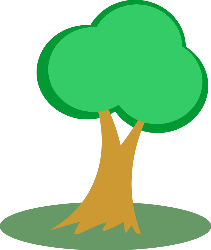
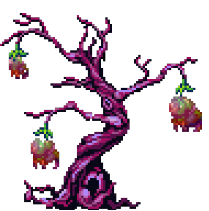
runtime! semi final

diff --git a/projects/runtime/js/level01.js b/projects/runtime/js/level01.js
@@ -16,9 +16,25 @@ var level01 = function (window) {
             "number": 1, 
             "speed": -3,
             "gameItems": [
-                { "type": "sawblade", "x": 400, "y": groundY },
-                { "type": "sawblade", "x": 600, "y": groundY },
-                { "type": "sawblade", "x": 900, "y": groundY },
+                { "type": "sawblade", "x": 400, "y": groundY - 115},
+                { "type": "sawblade", "x": 700, "y": groundY  - 140},
+                { "type": "sawblade", "x": 800, "y": groundY - 20},
+                { "type": "sawblade", "x": 1600, "y": groundY - 20},
+                { "type": "sawblade", "x": 2500, "y": groundY - 20},
+                { "type": "sawblade", "x": 2250, "y": groundY - 20},
+                { "type": "sawblade", "x": 3000, "y": groundY - 20},
+                { "type": "sawblade", "x": 3500, "y": groundY - 20},
+
+
+                { "type": "enemy", "x": 800, "y": groundY - 45},
+                { "type": "enemy", "x": 1600, "y": groundY - 45},
+                { "type": "enemy", "x": 2500, "y": groundY - 45},
+                { "type": "enemy", "x": 2000, "y": groundY - 45},
+            
+
+                { "type": "reward", "x": 1000, "y": groundY - 80},
+                { "type": "reward", "x": 2300, "y": groundY - 80},
+                { "type": "reward", "x": 2700, "y": groundY - 80},
             ]
         };
         window.levelData = levelData;
@@ -29,27 +45,90 @@ var level01 = function (window) {
         // BEGIN EDITING YOUR CODE HERE
 
         function createSawBlade(x, y){
-        var hitZoneSize = 25; //creates the size of the hitzone to 25 pixels
-        var damageFromObstacle = 10; //sets the damage of the obstacle
-        var sawBladeHitZone = game.createObstacle(hitZoneSize, damageFromObstacle); //creates the hitzone 
-        sawBladeHitZone.x = x; //the x position of the hitzone
-        sawBladeHitZone.y = y; //the y position of the hitzone
-        game.addGameItem(sawBladeHitZone); //add the hitzone to the game
+            var hitZoneSize = 30; //creates the size of the hitzone to 25 pixels
+            var damageFromObstacle = 10; //sets the damage of the obstacle
+            var sawBladeHitZone = game.createObstacle(hitZoneSize, damageFromObstacle); //creates the hitzone 
+            sawBladeHitZone.x = x; //the x position of the hitzone
+            sawBladeHitZone.y = y; //the y position of the hitzone
+            game.addGameItem(sawBladeHitZone); //add the hitzone to the game
 
-        var obstacleImage = draw.bitmap('img/sawblade.png'); //drawing the image and storing in the variable
-        sawBladeHitZone.addChild(obstacleImage); //adds the image to the hitzone     
-        obstacleImage.x = -25; //tweaks the image 25 pixels to the left
-        obstacleImage.y = -25; //tweaks the image 25 pixels up
+            var obstacleImage = draw.bitmap('img/Bombddd.png'); //drawing the image and storing in the variable
+            sawBladeHitZone.addChild(obstacleImage); //adds the image to the hitzone     
+            obstacleImage.x = -40; //tweaks the image 25 pixels to the left
+            obstacleImage.y = -50; //tweaks the image 25 pixels up
     
         }
+        
+        function createEnemy(x,y) {
+            var enemy = game.createGameItem('enemy', 25);
 
-        createSawBlade(400, 345);
-        createSawBlade(600, 345);
-        createSawBlade(800, 345);
+            var redSquare = draw.bitmap('img/ggg.png');
+            redSquare.x = -20;
+            redSquare.y = -40;
+            enemy.addChild(redSquare)
 
+            enemy.x= x;
+            enemy.y = y;
+
+            game.addGameItem(enemy);
+
+            enemy.velocityX = -1;
+
+            enemy.onPlayerCollision = function() {
+                console.log("the enemy had hit halle")
+                game.changeIntegrity(-50);
+                enemy.fadeOut();
+            }
+
+            enemy.onProjectileCollision = function() {
+                console.log("the enemy had hit halle")
+                game.changeIntegrity(-10);
+                game.increaseScore(10);
+                enemy.fadeOut();
         
-        
-        
+            }
+
+        }
+
+        function createReward(x,y) {
+            var reward = game.createGameItem('reward', 25);
+
+            var blueSquare = draw.bitmap('img/reward.png');
+            blueSquare.x = -65;
+            blueSquare.y = -75;
+            reward.addChild(blueSquare)
+
+            reward.x= x;
+            reward.y = y;
+
+            game.addGameItem(reward);
+
+            reward.velocityX = -1;
+
+            reward.onPlayerCollision = function() {
+                console.log("the reward had hit halle")
+                game.changeIntegrity(75);
+            }
+            
+        }
+
+        for(var i = 0; i < levelData.gameItems.length; i++){
+            var gameItem = levelData.gameItems[i];
+
+            if(gameItem.type === "sawblade"){
+                createSawBlade(gameItem.x, gameItem.y);
+            }
+
+            if(gameItem.type === "enemy"){
+                createEnemy(gameItem.x, gameItem.y);
+            }
+
+            if(gameItem.type === "reward"){
+                createReward(gameItem.x, gameItem.y);
+            }
+
+        }
+
         // DO NOT EDIT CODE BELOW HERE
     }
 };

diff --git a/projects/runtime/js/view/background.js b/projects/runtime/js/view/background.js
@@ -37,7 +37,7 @@ var background = function (window) {
             // TODO: 2 - Part 2
             // this fills the background with a obnoxious yellow
             // you should modify this to suit your game
-            var backgroundFill = draw.rect(canvasWidth,groundY,'yellow'); // color for background
+            var backgroundFill = draw.rect(canvasWidth,groundY,'black'); // color for background
             background.addChild(backgroundFill);
             
             // TODO: 3 - Add a moon and starfield
@@ -57,7 +57,7 @@ var background = function (window) {
 
             }
             // TODO 5: Part 1 - Add buildings!     Q: This is before TODO 4 for a reason! Why?
-            for(var i = 0; i < 5; i++) {
+            for(var i = 0; i < 10; i++) {
                 var buildingHeight = 300; // creates a variable called building height that holds the height of the building in pixels
                 var building = draw.rect(75,buildingHeight,'LightGray','Black',1); // creates a var called building that holds the data for the drawn building
                 building.x = 200*i; // positions the x of each building 200 pixels from the next building on each loop
@@ -69,9 +69,9 @@ var background = function (window) {
             // TODO 4: Part 1 - Add a tree
             tree = draw.bitmap('img/tree.png');
             tree.x = 600;
-            tree.y = groundY - 120;
-            tree.scaleX =  0.5;
-            tree.scaleY = 0.5;
+            tree.y = groundY - 150;
+            tree.scaleX = 0.75;
+            tree.scaleY = 0.75;
             background.addChild(tree);
             
         } // end of render function - DO NOT DELETE

diff --git a/projects/runtime/test/runtime.spec.js b/projects/runtime/test/runtime.spec.js
@@ -3,7 +3,7 @@
 const
     expect = require('chai').expect,
     sinon = require('sinon'),
-    window = require('../test/windowMock.js'),
+    window = require('./windowMock.js'),
     init = require('../js/init.js'),
     background = require('../js/view/background.js'),
     level01 = require('../js/level01.js');
